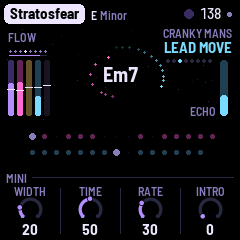
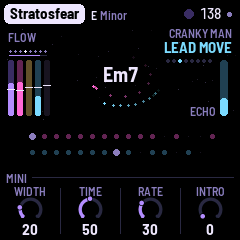
docs: the batch in PLAN, its CPU; the manual's screenshots re-rendered
PLAN lists the user's batch of 2026-10-28 and the CPU after it
(baseline.sh medians, every one under the 1.10 budget: the highest
Mirage 0.93). tests/listen/docshots.amb re-rendered into docs/img: the
pages as the firmware draws them now.

diff --git a/PLAN.md b/PLAN.md
@@ -42,6 +42,12 @@ Done, with the whole suite passing (`tests/run_tests.sh`, gate `tools/suite_gate
 - **Storage**: one project, magic "BRL1", format 7; other firmwares' saves and older NACHTFAHRT formats are not read.
 - **Docs**: README, MANUAL, this file; the manual's screenshots (`tests/listen/docshots.amb`) and panel drawing,
   brought up to date with the filter motion.
+- **The user's batch of 2026-10-28**: the name NACHTFAHRT (by CRANKY MAN); SELECT a layer's level on its pages
+  (nothing elsewhere: no paging, no tempo), OCT− / OCT+ the Sequence's, the Lead's and Sequence 2's octave (lit away
+  from the piece's own); the lengths Timewind 16/15, Sunrain 8/7, Mirage 12/11, Rubycon's octaves −2 / 0, Cyborg's
+  Sequence at 20; Motion no longer changes Sequence 2's length; Sequence 2's octave moves with Motion, a section at a
+  time. CPU after it (baseline.sh, medians): Timewind 0.74, Wahnfried 0.60, Phaedra 0.77, Rubycon 0.68, Stratosfear
+  0.78, Sunrain 0.85, Mirage 0.93, Cyborg 0.58, stressed 0.86.
 
 ## CPU (host proxy)
 
